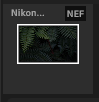
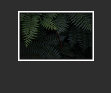
update lightroom test

diff --git a/adobe_lightroom/test.sikuli/test.py b/adobe_lightroom/test.sikuli/test.py
@@ -24,6 +24,11 @@ paste('turbo run lightroom --using=isolate-edge-wc,creativeclouddesktop --offlin
 wait(5)
 type(Key.ENTER)
 wait("lightroom_window.png")
+if exists("adobe_login_signout_others.png",60):
+    click(Pattern("adobe_login_signout_others.png").targetOffset(2,55))
+    click(Pattern("adobe_login_continue.png").similar(0.80))
+if exists("adobe_login_team.png",10):
+    click(Pattern("adobe_login_continue.png").similar(0.80))
 if exists("new_feature.png",15):
     click(Pattern("new_feature.png").targetOffset(485,-3))
 if exists("got_it.png",10):

diff --git a/!include/util.sikuli/util.py b/!include/util.sikuli/util.py
@@ -181,7 +181,7 @@ def adobe_cc_login(username, password):
     wait(20)
     wait(Pattern("adobe_login.png").similar(0.40),10)
     click(Pattern("adobe_login.png").similar(0.40))
-    wait(3)
+    wait(6)
     paste(username)
     wait(3)
     type(Key.ENTER)
